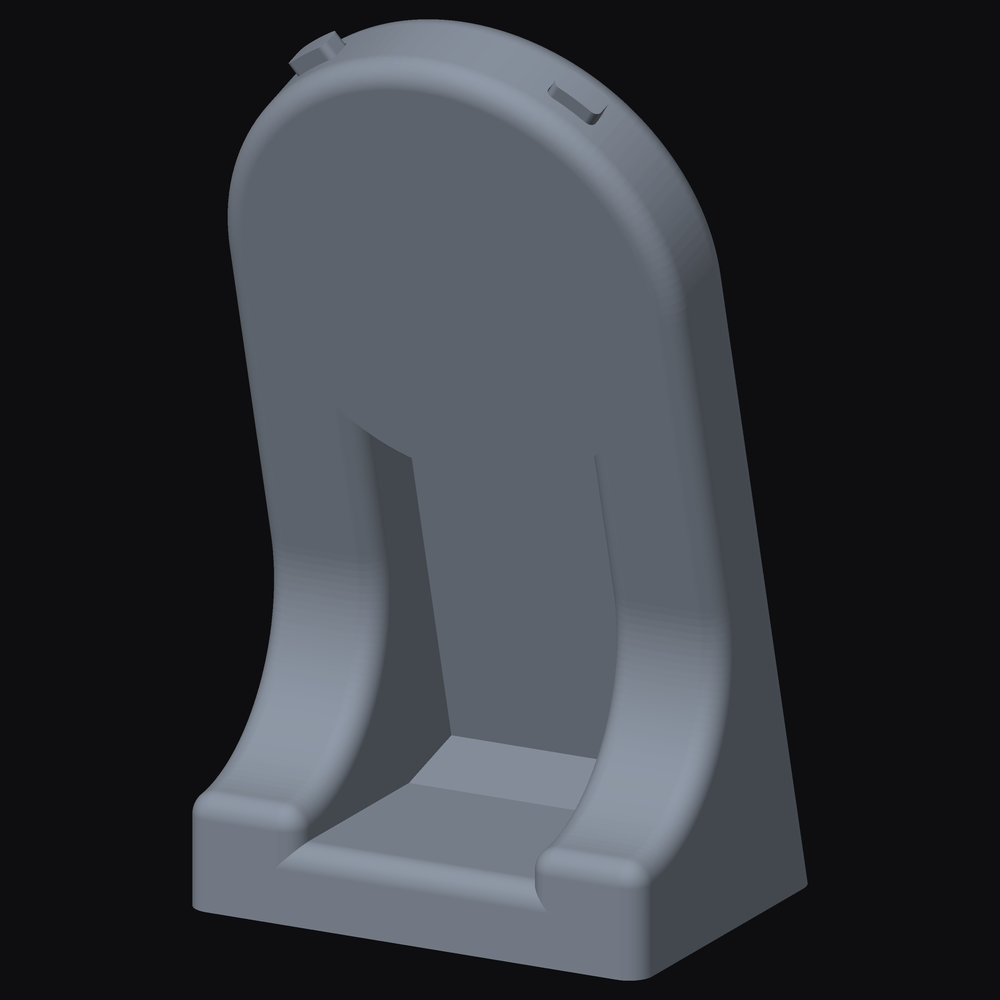
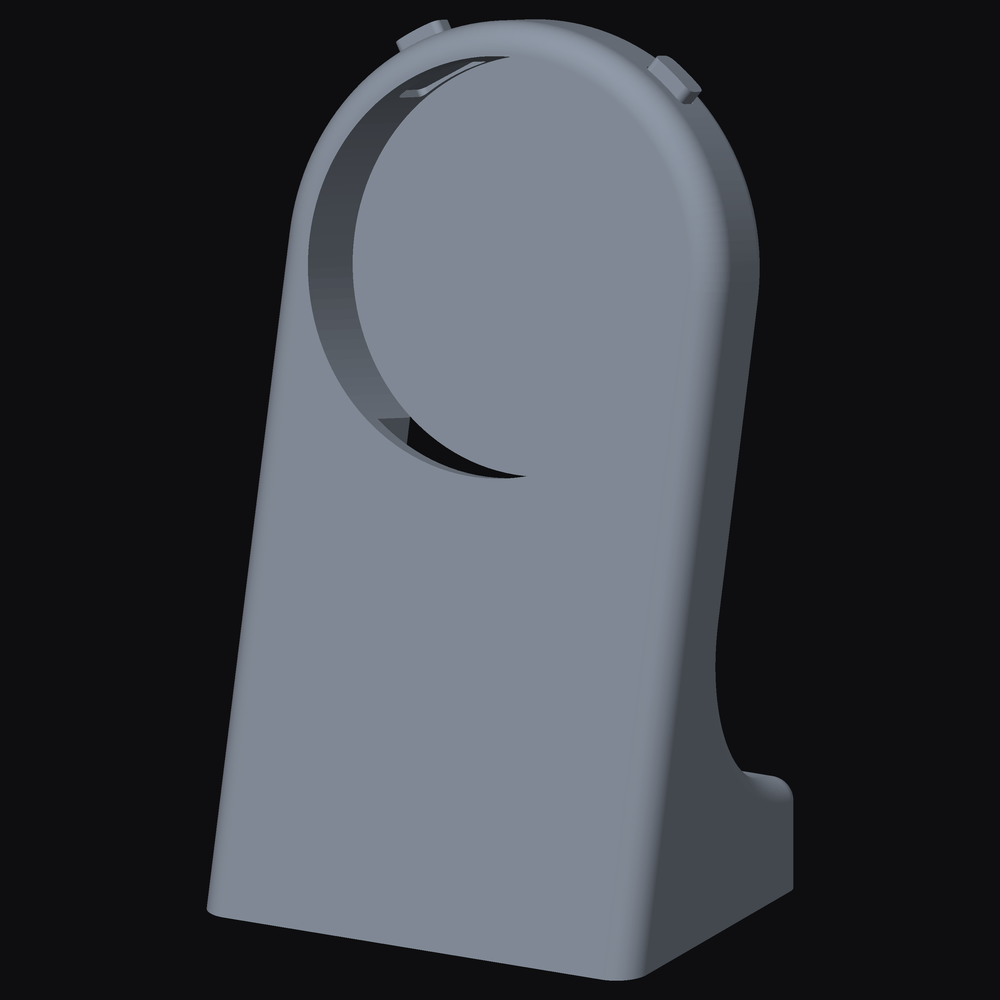
Turn the stand render to face the front
The previous angle showed the back. What I read as the cradle was the
hollow behind it; the Puck actually seats into the round face on the other
side, which is also where the two caps read as caps rather than as tabs.

Description corrected to match, and the bed-size remark dropped.

diff --git a/README.md b/README.md
@@ -261,18 +261,18 @@ address in your router and grant it again.
 
 ## The stand
 
-A desk stand for the Puck. It drops into the circular cradle and rests on the lipped
-base. Three parts in the file: the stand itself and two small caps that sit at the top
+A desk stand for the Puck. It seats into the round face at the front and sits on the
+moulded base. Three parts in the file: the stand itself and two small caps at the top
 edge, either side of centre.
 
-<p align="center"><img src="docs/img/stand.png" width="320" alt="The printed stand: a rounded upright with a circular cradle for the Puck and a lipped base"></p>
+<p align="center"><img src="docs/img/stand.png" width="320" alt="The printed stand seen from the front: a rounded upright with a circular recess for the Puck, two caps at the top edge, and a moulded base"></p>
 
 | | |
 |---|---|
 | [`SigenStorPuckStand.3mf`](docs/stl/SigenStorPuckStand.3mf) | The one to print. Carries all three parts, positioned as designed. Every slicer opens it. |
 | [`SigenStorPuckStand.stl`](docs/stl/SigenStorPuckStand.stl) | The same geometry as a single mesh. Mostly so GitHub will show it in its own 3D viewer — click it and drag to spin it. |
 
-60 × 45 × 109 mm overall, well inside any printer's bed.
+60 × 45 × 109 mm overall.
 
 ## Hardware
 
